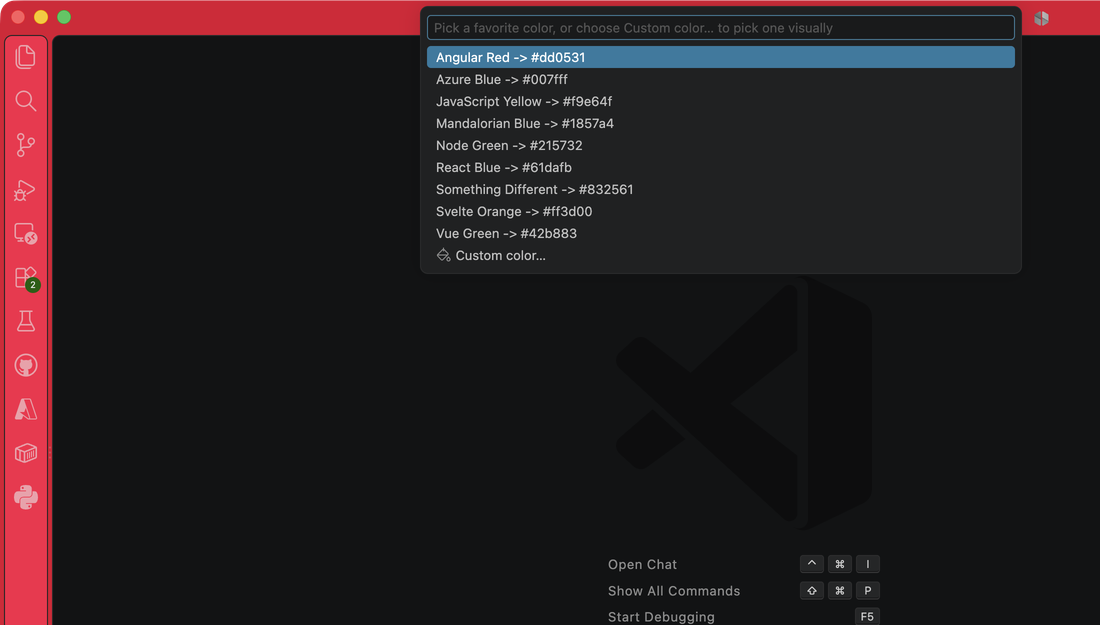
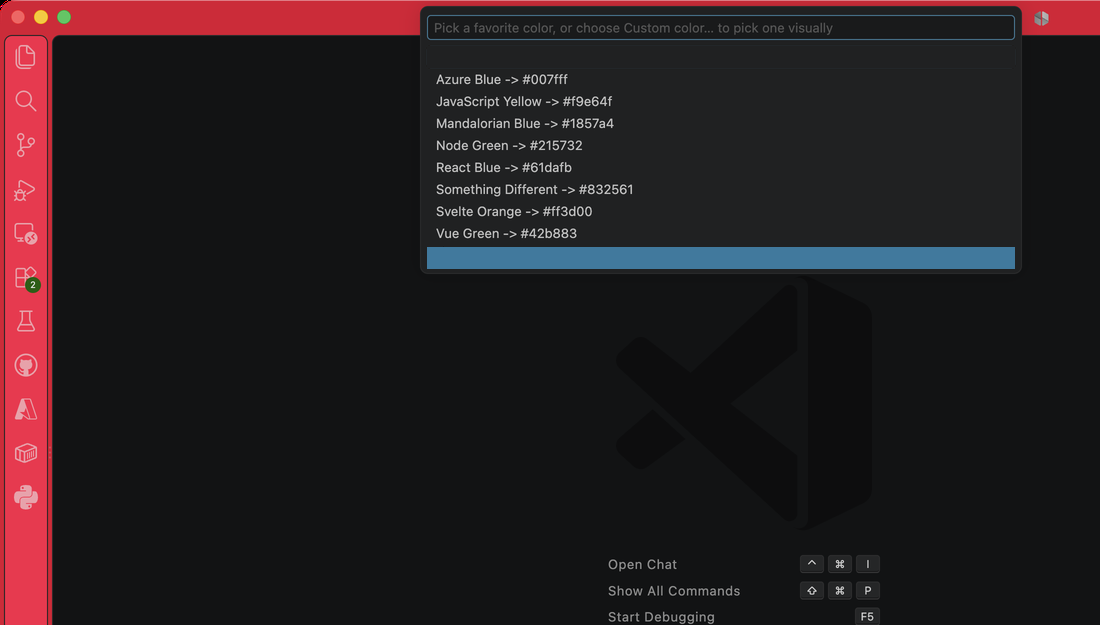
docs(708): show Custom color selected in walkthrough screenshot

Changed region(s): [[0.3709, 0.0608, 0.9273, 0.1216], [0.3709, 0.3952, 0.9273, 0.456], [0.0, 0.0, 0.0309, 0.0304]]

diff --git a/docs/guide/README.md b/docs/guide/README.md
@@ -108,7 +108,7 @@ When opening the Favorites command in the command palette, Peacock now previews 
 
 The last item in the favorites list is **Custom color…**. Selecting it opens a small color picker panel with a native color well and a hex text field kept in sync with each other, so you can pick a color visually instead of looking up a hex code elsewhere and pasting it into **Peacock: Enter a Color**.
 
-![Favorites Quick Pick with the Custom color… item](../assets/custom-color-picker-1-quickpick.png)
+![Favorites Quick Pick with Custom color… selected](../assets/custom-color-picker-1-quickpick.png)
 
 Selecting **Custom color…** opens the picker panel, starting from your current Peacock color:
 
